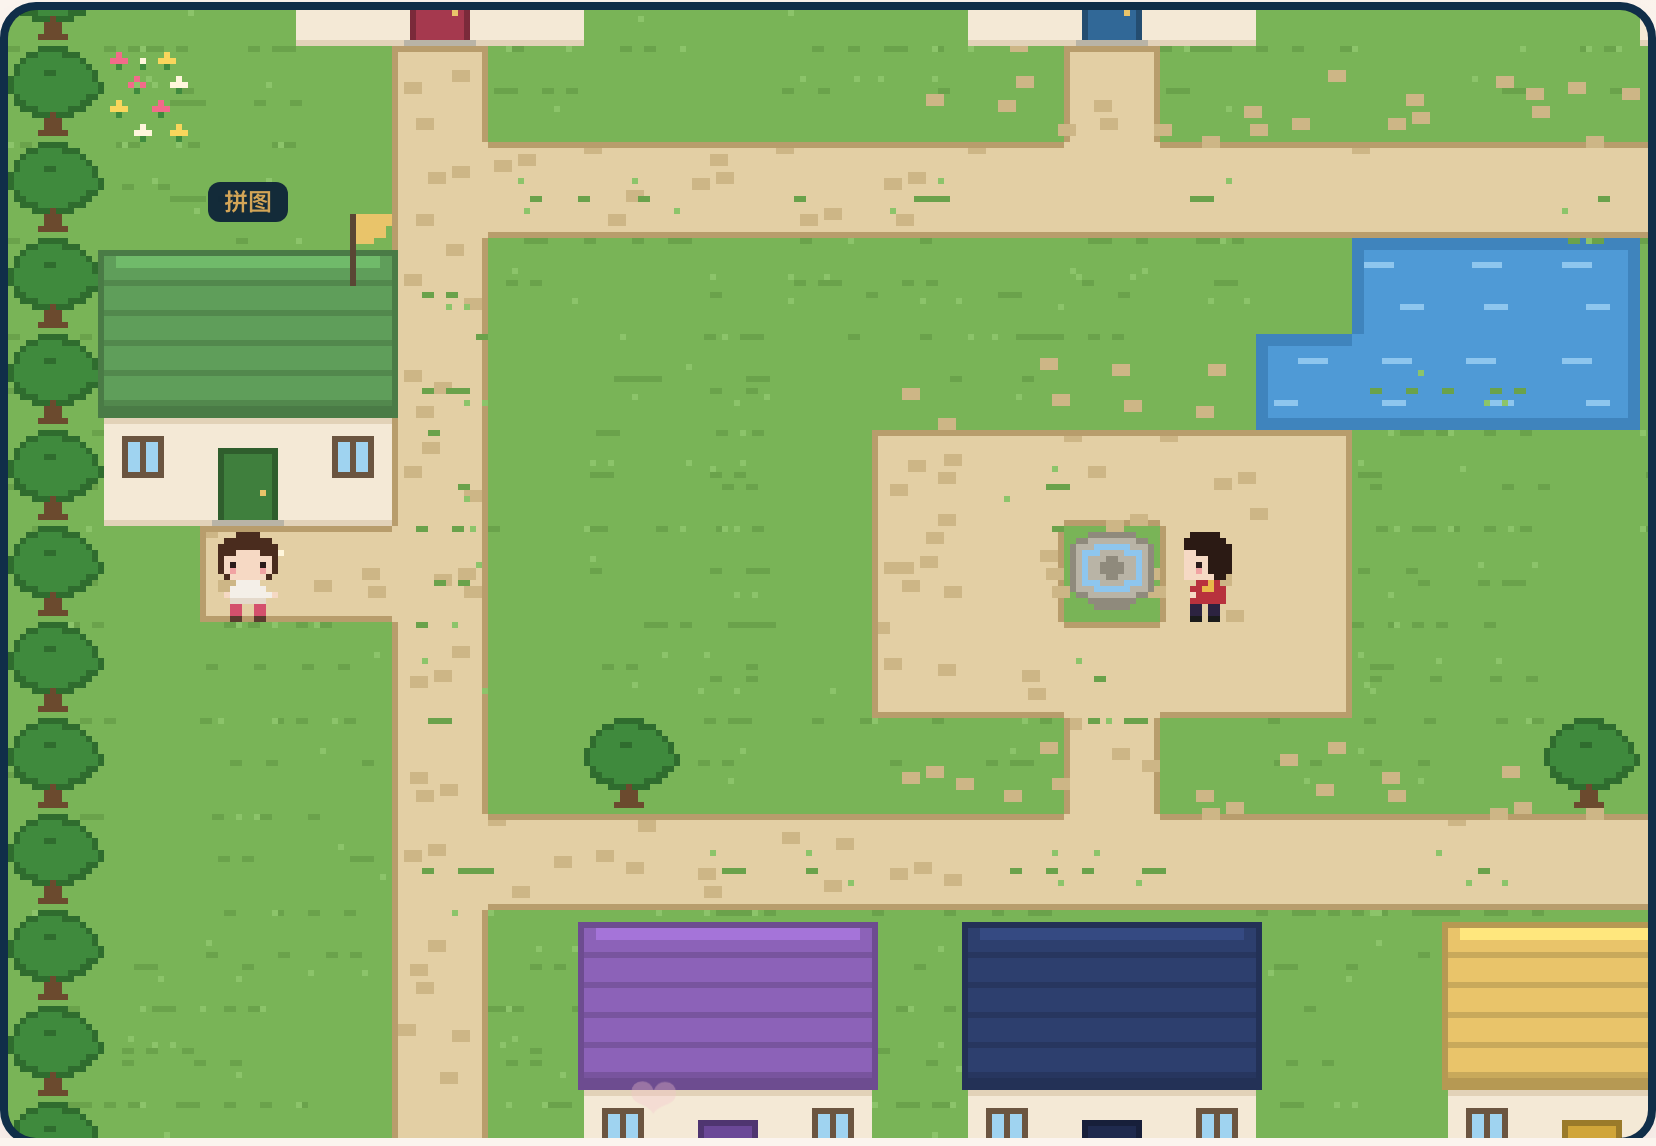
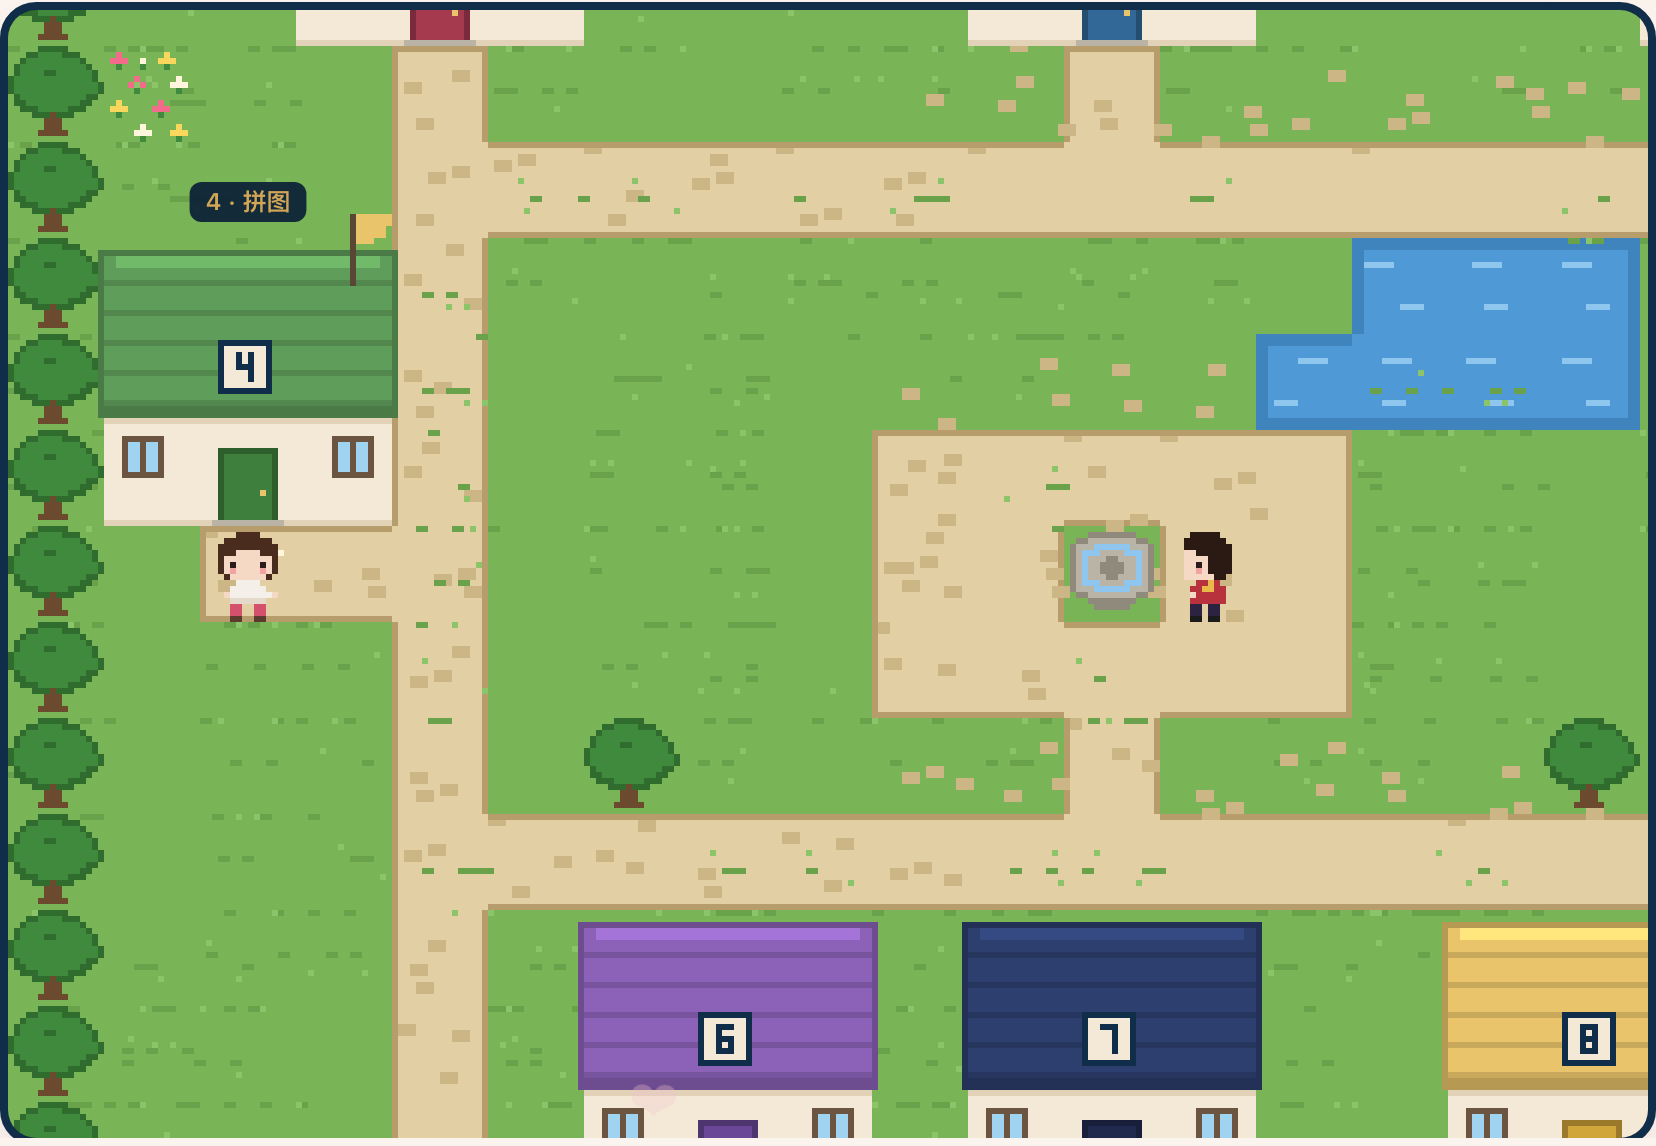
Every roof carries its level number on a small sign (3×5 pixel digits drawn in code), and the floating name plate reads '4 · Puzzle'; town screenshot and demo GIF re-recorded; docs updated

diff --git a/src/features/world/tiles.ts b/src/features/world/tiles.ts
@@ -2,6 +2,7 @@
 // Everything is fillRect and small pixel grids: no image files.
 import { BUILDINGS, HEIGHT, TOWN, WIDTH, type Building } from './town';
 import { paint, type Palette } from './sprites';
+import { levelNumber } from '../../core/quest';
 
 export const TILE = 16;
 
@@ -11,7 +12,7 @@ const C = {
   water: '#4f9ad6', waterDark: '#3f84bd', waterLight: '#8ec6ee',
   trunk: '#6b4a2e', leaf: '#3f8a3d', leafDark: '#2f6c2e', leafLight: '#5aa84f',
   wall: '#f4e9d6', wallShade: '#e2d2b8', window: '#9fd3f0', windowFrame: '#6b5540',
-  stone: '#b9b4a6', stoneDark: '#8f8a7c', gold: '#e9c46a', pole: '#5a4634',
+  stone: '#b9b4a6', stoneDark: '#8f8a7c', gold: '#e9c46a', pole: '#5a4634', navy: '#102e49',
 };
 
 const FLOWER_PALETTE: Palette = { r: '#f26b8a', y: '#f9d65c', w: '#fff6dc', g: '#3f8a3d' };
@@ -108,6 +109,30 @@ function shade(hex: string, f: number): string {
   return `#${ch(n >> 16)}${ch((n >> 8) & 255)}${ch(n & 255)}`;
 }
 
+// A 3×5 pixel digit for the number sign on each roof.
+const DIGITS: Record<string, string[]> = {
+  '0': ['###', '#.#', '#.#', '#.#', '###'],
+  '1': ['.#.', '##.', '.#.', '.#.', '###'],
+  '2': ['###', '..#', '###', '#..', '###'],
+  '3': ['###', '..#', '###', '..#', '###'],
+  '4': ['#.#', '#.#', '###', '..#', '..#'],
+  '5': ['###', '#..', '###', '..#', '###'],
+  '6': ['###', '#..', '###', '#.#', '###'],
+  '7': ['###', '..#', '..#', '..#', '..#'],
+  '8': ['###', '#.#', '###', '#.#', '###'],
+  '9': ['###', '#.#', '###', '..#', '###'],
+};
+
+/** The level number on a cream sign in the middle of the roof, so a house reads as "3" from afar. */
+function numberSign(ctx: CanvasRenderingContext2D, x: number, y: number, n: number): void {
+  const text = String(n), w = text.length * 4 + 3;
+  ctx.fillStyle = C.navy;
+  ctx.fillRect(x - 1, y - 1, w + 2, 9);
+  ctx.fillStyle = C.wall;
+  ctx.fillRect(x, y, w, 7);
+  [...text].forEach((ch, k) => paint(ctx, DIGITS[ch] ?? DIGITS['0'], { '#': C.navy }, x + 2 + k * 4, y + 1));
+}
+
 /** A 3×3-tile house: two rows of roof, one of wall with the door in the middle. */
 function house(ctx: CanvasRenderingContext2D, b: Building): void {
   const x = (b.door.x - 1) * TILE, y = (b.door.y - 2) * TILE;
@@ -121,6 +146,9 @@ function house(ctx: CanvasRenderingContext2D, b: Building): void {
   for (let r = y + 7; r < y + roofH; r += 5) ctx.fillRect(x, r, w, 1);
   ctx.fillStyle = shade(b.roof, 1.18);
   ctx.fillRect(x + 2, y + 3, w - 4, 2);
+  // The level number, centred low on the roof.
+  const n = levelNumber(b.level), sw = String(n).length * 4 + 3;
+  numberSign(ctx, x + Math.floor((w - sw) / 2), y + roofH - 10, n);
   // Wall.
   ctx.fillStyle = C.wall;
   ctx.fillRect(x, y + roofH + 2, w, TILE + 2);

diff --git a/src/features/world/world.ts b/src/features/world/world.ts
@@ -1,7 +1,7 @@
 // The town page: the new home. A canvas with the walking engine, a d-pad for phones, the talk box.
 import './world.css';
 import { t, type Key } from '../../core/i18n';
-import { LEVELS, getPlayer, isCleared, isUnlocked, current, reset, setPlayer, onQuestChange, clearedByAll, levelIndex, type PlayerId } from '../../core/quest';
+import { LEVELS, getPlayer, isCleared, isUnlocked, current, reset, setPlayer, onQuestChange, clearedByAll, levelIndex, levelNumber, type PlayerId } from '../../core/quest';
 import { avatarHtml, playerName } from '../../core/quest-ui';
 import { prefersReducedMotion } from '../../core/motion';
 import { escapeAttr } from '../../core/html';
@@ -166,7 +166,7 @@ export function renderWorld(root: HTMLElement): () => void {
     walkable: (x, y) => walkable(x, y, (id) => isUnlocked(id, p)),
     cleared: (id) => isCleared(id, p),
     onDoor, onBump, onMove: (q) => savePos(p, q),
-    label: (b) => t(LEVELS[levelIndex(b.level)].title),
+    label: (b) => `${levelNumber(b.level)} · ${t(LEVELS[levelIndex(b.level)].title)}`,
   });
 
   // Keyboard: arrows / WASD walk, Enter / Space / Z act, Escape closes the talk box.

diff --git a/src/features/world/README.md b/src/features/world/README.md
@@ -2,8 +2,8 @@
 
 Route: `#/`, the home page. A top-down pixel town in the style of a handheld RPG: the player
 walks a sprite of themselves between eight houses, one per level. Stepping onto an open door
-opens a talk box (level title, one-line story, Go in / Not now); a cleared house flies a gold
-flag. Two real cats live in the town, drawn after their photos: **Coffee** (a seal-point Ragdoll)
+opens a talk box (level title, one-line story, Go in / Not now); every roof carries a sign with
+its level number (a 3×5 pixel digit); a cleared house flies a gold flag. Two real cats live in the town, drawn after their photos: **Coffee** (a seal-point Ragdoll)
 sits in front of the next locked door and **Duoduo** (a bicolour Ragdoll) in front of the one
 after, each with its own line naming the level to clear first; a cat with nothing left to guard
 rests at its home spot (Coffee by the pond, Duoduo in the middle of the square). Bumping a cat
@@ -23,8 +23,8 @@ points to the epilogue.
 Controls: arrows or WASD walk; Enter, Space or Z go in or talk; Escape closes the talk box. A key
 tap moves one tile; a held key keeps walking. Tapping a tile on the canvas walks there by the
 shortest path (`WorldEngine.walkTo`); tapping a cat, the partner or a locked door walks up to it
-and acts like a bump. On touch, the pad below the canvas does the same as the keys. A house's name
-floats over its roof while the player is within two tiles of its door.
+and acts like a bump. On touch, the pad below the canvas does the same as the keys. A house's number and name
+float over its roof while the player is within two tiles of its door.
 
 Where the player stood is kept in `localStorage` (`yi.world.<player>`); coming back from a level
 puts them in front of that house's door, facing it. "Start over" in the footer clears it with

diff --git a/docs/superpowers/specs/2026-10-26-town-design.md b/docs/superpowers/specs/2026-10-26-town-design.md
@@ -37,7 +37,8 @@ Shenzhen to College Station (option B, maybe later), any game-engine dependency.
    own line naming the previous level, with the cat's photo. A cat with nothing to guard rests
    at its home spot (`CAT_HOMES`) and has an idle line. (Amended 2026-10-26: was one generic cat
    per locked door.)
-4. A cleared building flies a small gold flag on its roof.
+4. A cleared building flies a small gold flag on its roof. Every roof carries a sign with the
+   level number, so the town can be read without opening a door (added 2026-10-26).
 5. The partner stands by the fountain. Bumping into them shows one line and their progress on
    this device. When both have reached the ring, the line points to the epilogue.
 6. Reduced motion: the typewriter prints at once; walking still animates (it is the game).

diff --git a/README.md b/README.md
@@ -54,7 +54,7 @@ languages, and it installs as an app that works offline.
 
 ## ⌂ The Houses
 
-Each roof in the town has its own colour. Walk into the door to play the level.
+Each roof in the town has its own colour and carries its number. Walk into the door to play the level.
 
 | Roof | # | Level | The task | Behind the door |
 |:---:|:---:|---|---|---|
